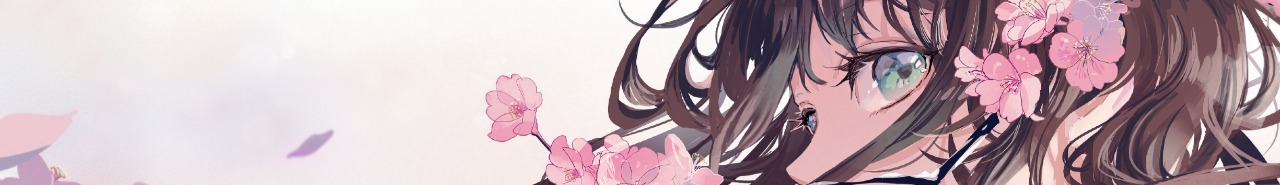
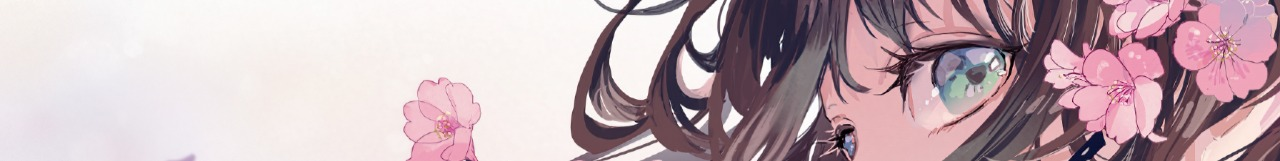
Replace + adjust images

diff --git a/src/style.css b/src/style.css
@@ -168,13 +168,13 @@ nav label:hover {
 }
 
 #about-us {
-    background-image: url(./images/restaurant.jpg);
+    background-image: url(./images/restaurant.jpeg);
     background-repeat: no-repeat;
     background-position: top;
     background-attachment: fixed;
+    background-size: 60vw;
     width: 60vw;
     height: 50vh;
-    bottom: 20vh;
 }
 
 #content>div:nth-of-type(2n) {
